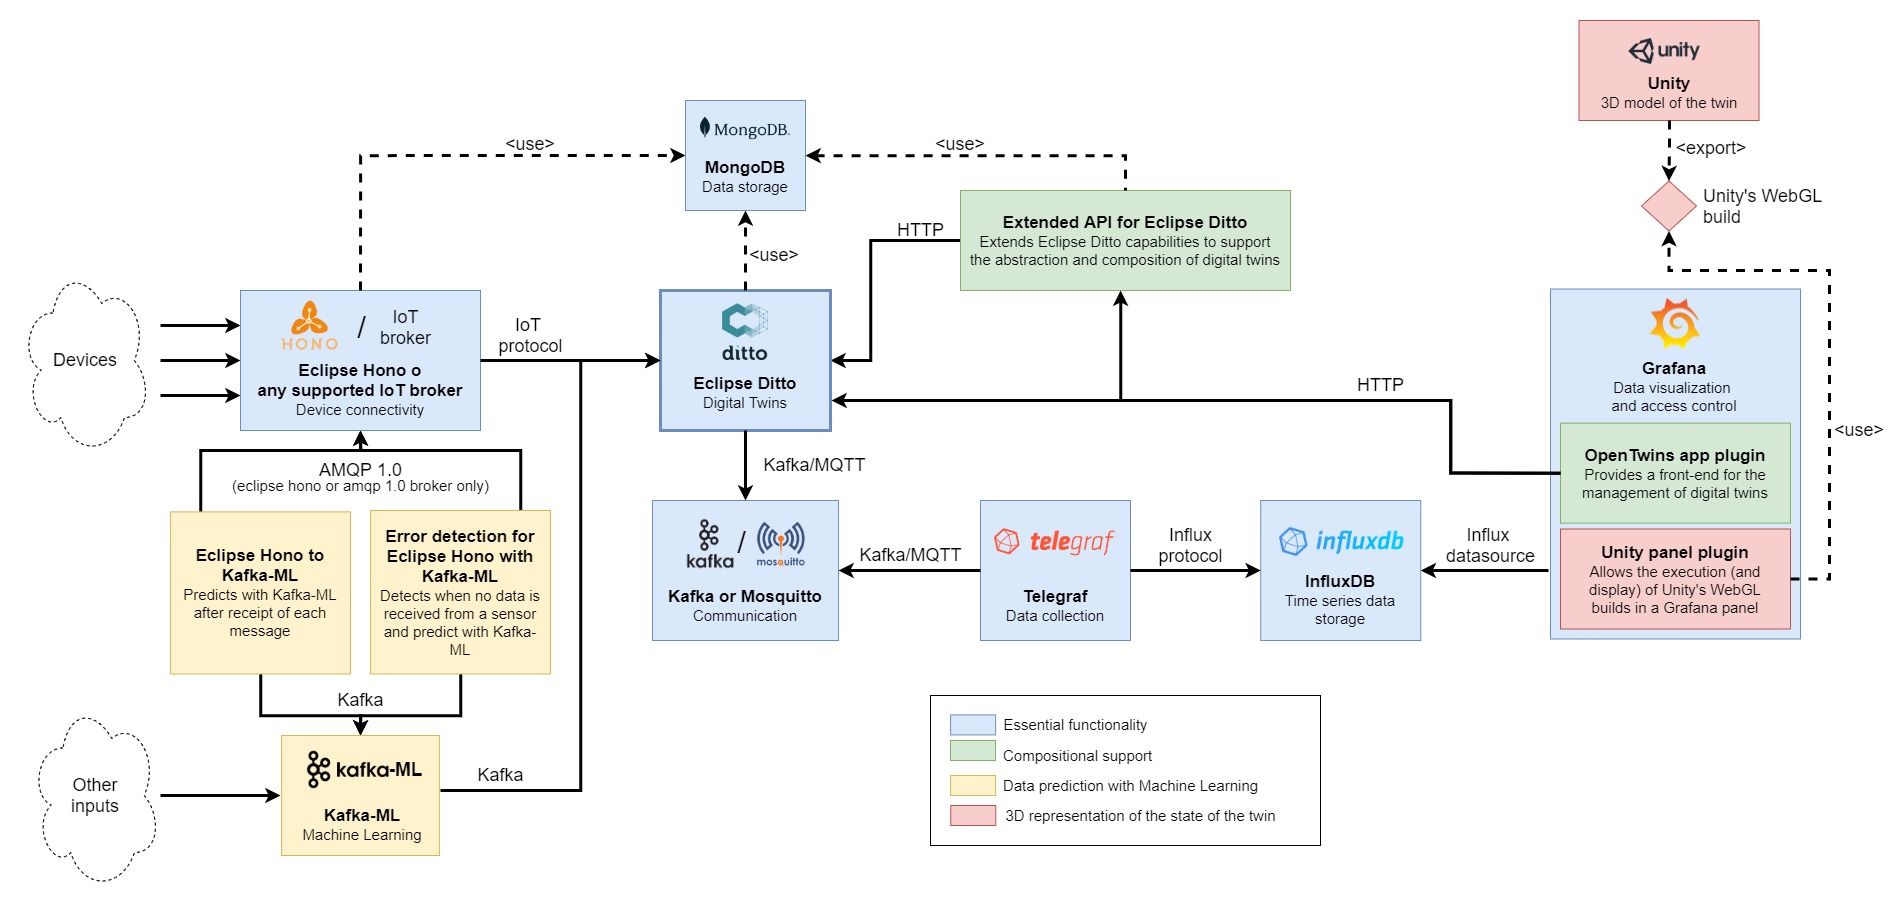
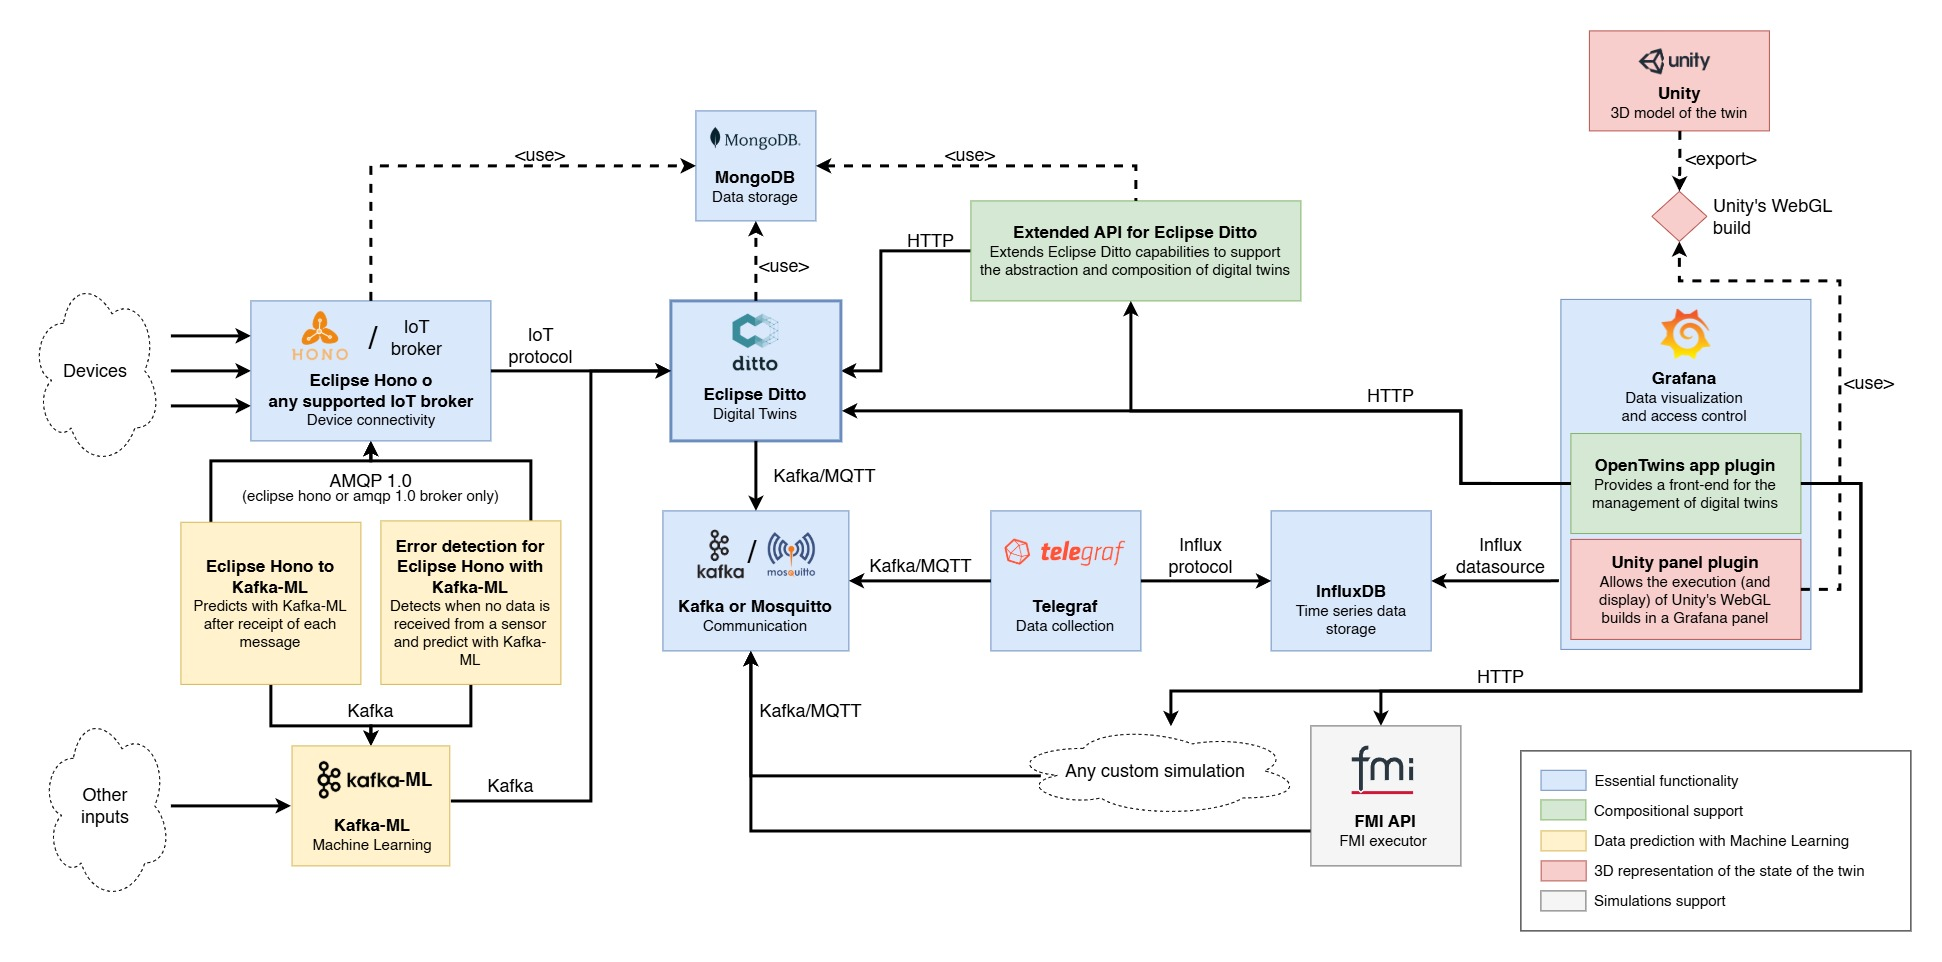
docs: add simulations to architecture and fix quickstart bucket

Changed region(s): [[0.031, 0.0, 0.9916, 0.9528], [0.7747, 0.7991, 0.9916, 0.9835], [0.031, 0.3074, 0.062, 0.3381]]

diff --git a/docs/docs/overview/architecture.md b/docs/docs/overview/architecture.md
@@ -6,13 +6,13 @@ sidebar_position: 3
 
 OpenTwins is built on a **open source microservices architecture**, designed to enhance scalability, flexibility and efficiency in the development, extension, deployment and maintenance of the platform. All the components that make up this architecture are encapsulated in [Docker](https://www.docker.com/) containers, ideally managed through [Kubernetes](https://kubernetes.io/), which ensures efficient portability and management. 
 
-## Standard architecture
-
 :::note
 
-Although it is possible to deploy and connect the different components without containerization, this approach is not recommended due to the difficulties involved in terms of installation and management. However, it is important to note that OpenTwins could be [manually connected](../installation/manual/index.md) to non-containerized components, such as a local instance of Grafana.
+Although it is possible to deploy and connect the different components without containerization, this approach is not recommended due to the difficulties involved in terms of installation and management. However, it is important to note that OpenTwins could be [manually connected](../installation/manual/index.md) to non-containerized components.
 
 :::
+
+## Standard architecture
 
 The following image illustrates the current architecture of OpenTwins, in which each color of the boxes represents the functionality covered by each component. Most of these components are external projects to our organization, however, we also include certain services specifically designed to enrich the functionality of the platform. Both the code and documentation of the [components](https://github.com/ertis-research/opentwins/tree/main/components) are available in their respective repositories.
 
@@ -53,9 +53,9 @@ The architecture highlights in **yellow** the components that facilitate the int
 
   - [Kafka-ML](https://github.com/ertis-research/kafka-ml). This open source framework manages the lifecycle of ML/AI applications in production environments through continuous data streams. Unlike traditional frameworks that work with static data sets, Kafka-ML enables both training and inference with continuous data streams, allowing users to have fine-grained control over ingestion data. Currently, Kafka-ML is compatible with the most popular ML frameworks, [TensorFlow](https://www.tensorflow.org/) and [PyTorch](https://pytorch.org/), and enables the **management and deployment of ML models**, from definition to final deployment for inference. This component operates as a black box in OpenTwins, receiving input data for a deployed model through a Kafka topic and sending the predicted result to another topic, which is connected to Eclipse Ditto in a way that updates to the corresponding digital twin.
 
-  - [Eclipse Hono to Kafka-ML](https://github.com/ertis-research/eclipse-hono-to-kafka-ml). Kafka-ML can receive input data from any source that is able to publish to a Kafka topic. However, at OpenTwins we have decided to simplify this process when the data comes from Eclipse Hono. Therefore, we have developed an optional service that automates the data feed of ML models deployed in Kafka-ML. This service **automatically sends the data needed to make a prediction** every time a new data is received from any of the devices required by the model. To use this tool, we provide an API that allows you to specify which devices should be taken into account, what data is required from these devices and how they should be formatted to work correctly as input for Kafka-ML.
+  - **[DEPRECATED]** [Eclipse Hono to Kafka-ML](https://github.com/ertis-research/eclipse-hono-to-kafka-ml). Kafka-ML can receive input data from any source that is able to publish to a Kafka topic. However, at OpenTwins we have decided to simplify this process when the data comes from Eclipse Hono. Therefore, we have developed an optional service that automates the data feed of ML models deployed in Kafka-ML. This service **automatically sends the data needed to make a prediction** every time a new data is received from any of the devices required by the model. To use this tool, we provide an API that allows you to specify which devices should be taken into account, what data is required from these devices and how they should be formatted to work correctly as input for Kafka-ML.
 
-  - [Error detection for Eclipse Hono with Kafka-ML](https://github.com/ertis-research/error-detection-for-eclipse-hono-with-kafka-ml). An ML model useful in the construction of a digital twin is one capable of generating data that a sensor should produce in case it loses connection or experiences a failure. To automate this, we have developed an optional service with similar functionalities to the one mentioned above, but with an important particularity: it will only invoke the model when an interruption in data reception by the device is detected. This service takes into account the frequency with which the data is emitted by the device. As soon as an anomaly is identified, the service will format and send the last data received following the expected frequency until the connection is restored and real data is received again. In this way, the **normal operation of the device is simulated**, ensuring continuity of information for the digital twin.
+  - **[DEPRECATED]** [Error detection for Eclipse Hono with Kafka-ML](https://github.com/ertis-research/error-detection-for-eclipse-hono-with-kafka-ml). An ML model useful in the construction of a digital twin is one capable of generating data that a sensor should produce in case it loses connection or experiences a failure. To automate this, we have developed an optional service with similar functionalities to the one mentioned above, but with an important particularity: it will only invoke the model when an interruption in data reception by the device is detected. This service takes into account the frequency with which the data is emitted by the device. As soon as an anomaly is identified, the service will format and send the last data received following the expected frequency until the connection is restored and real data is received again. In this way, the **normal operation of the device is simulated**, ensuring continuity of information for the digital twin.
 
 ### 3D representation
 
@@ -68,7 +68,7 @@ However, it could be replaced by any other graphics engine that compiles in WebG
 
 Although it may seem a secondary aspect, the representation of the digital twin makes a major difference in its utility and adoption. An intuitive and attractive visual interface for users will facilitate the understanding and accessibility of the data received, which simplifies the optimization of the actual system. 3D representations stand out as one of the most effective options in this sense, which motivates most private digital twin platforms to offer support for them. For this reason, OpenTwins allows adding an interactive 3D representation of the digital twin that reacts dynamically to data received from any source (real, predicted or simulated). The components highlighted in **red** are the ones that enable this functionality.
 
-  - [Unity](https://unity.com/) This powerful **graphics engine**, versatile in both 3D and 2D development, is widely used in the creation of video games, simulations and engineering. It is recognized as one of the most popular, supported by a large and active community. Although it is not open source software, it can be used [free of charge for personal or low-profit projects](https://unity.com/es/products/unity-personal?currency=EUR). The technology of this engine allows to assign behaviors to 3D objects by means of scripts, which facilitates interaction both with the user and with other elements of the environment.
+  - [Unity](https://unity.com/). This powerful **graphics engine**, versatile in both 3D and 2D development, is widely used in the creation of video games, simulations and engineering. It is recognized as one of the most popular, supported by a large and active community. Although it is not open source software, it can be used [free of charge for personal or low-profit projects](https://unity.com/es/products/unity-personal?currency=EUR). The technology of this engine allows to assign behaviors to 3D objects by means of scripts, which facilitates interaction both with the user and with other elements of the environment.
 
   :::info
   Unity offers a wide range of [formats for importing 3D models](https://docs.unity3d.com/2023.2/Documentation/Manual/3D-formats.html), but we emphasize its integration with [Blender](https://www.blender.org/), an open source 3D creation suite that is equally popular and supported by an active community. 
@@ -78,13 +78,15 @@ Although it may seem a secondary aspect, the representation of the digital twin 
 
   - [Unity panel plugin for Grafana](https://github.com/ertis-research/unity-plugin-for-grafana). Since Grafana serves as the front-end of OpenTwins, it is convenient that the 3D representations are embedded directly into this tool, providing a unified management and visualization of the digital twin. To achieve this, a plugin capable of **rendering WebGL compilations within a Grafana panel** has been developed. This plugin is able to send the digital twin data from Grafana to the compilation, allowing it to influence the rendering in real time. In addition, this plugin enables direct user interaction with the 3D model, allowing actions on 3D elements to affect other panels of the dashboard. For example, by clicking on a 3D element, another Grafana panel can automatically display data related to it.
 
+### Simulations support
+
+Simulating the behavior of a real asset is a core capability of an advanced digital twin, enabling users to test scenarios, analyze system dynamics, and predict future states without affecting the real-world counterpart. OpenTwins offers a flexible approach to integrate these simulations into the platform, relying on direct communication with the platform's message brokers. This support can be composed of one or both of the following elements:
+
+  - [FMI API](https://github.com/ertis-research/opentwins-fmi-2.0). The [Functional Mock-up Interface (FMI)](https://fmi-standard.org/) is a widely adopted standard for exchanging dynamic simulation models. To facilitate its use, we have developed a specific component that allows users to upload FMIs and interact with them via HTTP requests. Once the simulation is executed, this API automatically sends the resulting data to the active message broker (Apache Kafka or Mosquitto), making it available for the digital twin. You can learn more about how to use and deploy this tool in its [specific documentation section](./../guides/fmi/concepts.mdx).
+
+  - *Any custom simulation*. Rather than a specific software component provided by OpenTwins, this represents a flexible integration pattern. The platform supports the integration of any custom simulation that is encapsulated (e.g., within a Docker container), provided it exposes an HTTP interface for interaction and is configured to publish its execution results to Apache Kafka or Mosquitto. This ensures that any proprietary simulation tool, model, or script that does not follow the FMI standard can still be integrated into OpenTwins.
+
 ## Lightweight architecture
-
-:::note
-
-Although it is possible to deploy and connect the different components without containerization, this approach is not recommended due to the difficulties involved in terms of installation and management. However, it is important to note that Lightweight version of OpenTwins could be [manually connected](../installation/manual/index.md) to non-containerized components.
-
-:::
 
 The following image illustrates the current lightweigh architecture of OpenTwins, the field of digital twins is closely linked to the IoT, highlighting the critical importance of reducing data transmission delays. Additionally, IoT devices typically have limited processing capabilities, which makes running resource-demanding software impractical. This new architecture has been developed to facilitate dependable IoT applications within a distributed Edge/Fog/Cloud infrastructure. Developing a lightweight distributed version of OpenTwins can offer several advantages and address various needs depending on the context and goals of the project.
 

diff --git a/README.md b/README.md
@@ -9,7 +9,8 @@
 
 </br> 
 <a href='https://ertis-research.github.io/opentwins' target="_blank"><img alt='Read the Docs' src='https://img.shields.io/badge/Docs-100000?style=for-the-badge&logo=Read-the-Docs&logoColor=000000&labelColor=33d9b2&color=40407a'/></a>
-<a href='https://github.com/ertis-research/Helm-charts/tree/main/OpenTwins' target="_blank"><img alt='Helm' src='https://img.shields.io/badge/Helm-100000?style=for-the-badge&logo=Helm&logoColor=000000&labelColor=33d9b2&color=40407a'/></a>
+<a href='https://github.com/ertis-research/helm-charts/tree/main/OpenTwins' target="_blank"><img alt='Helm' src='https://img.shields.io/badge/Helm-100000?style=for-the-badge&logo=Helm&logoColor=000000&labelColor=33d9b2&color=40407a'/></a>
+<a href='https://opentwins.ertis.uma.es' target="_blank"><img alt='Demos' src='https://img.shields.io/badge/DEMOS-100000?style=for-the-badge&logo=grafana&logoColor=000000&labelColor=33d9b2&color=40407a'/></a>
 </div>
 
 </br>

diff --git a/docs/docs/installation/manual/essential.md b/docs/docs/installation/manual/essential.md
@@ -154,10 +154,10 @@ OpenTwins supports the use of Mosquitto and Kafka as intermediaries, but **we re
 :::
 
 - [App documentation](https://mosquitto.org/documentation/)
-- [Helm values file](https://github.com/ertis-research/Helm-charts/blob/main/mosquitto/values.yaml)
+- [Helm values file](https://github.com/ertis-research/helm-charts/blob/main/mosquitto/values.yaml)
 
 ```bash
-helm repo add ertis https://ertis-research.github.io/Helm-charts/
+helm repo add ertis https://ertis-research.github.io/helm-charts/
 helm repo update
 helm install mosquitto ertis/mosquitto -n opentwins --wait --dependency-update -f values.yaml
 ```
